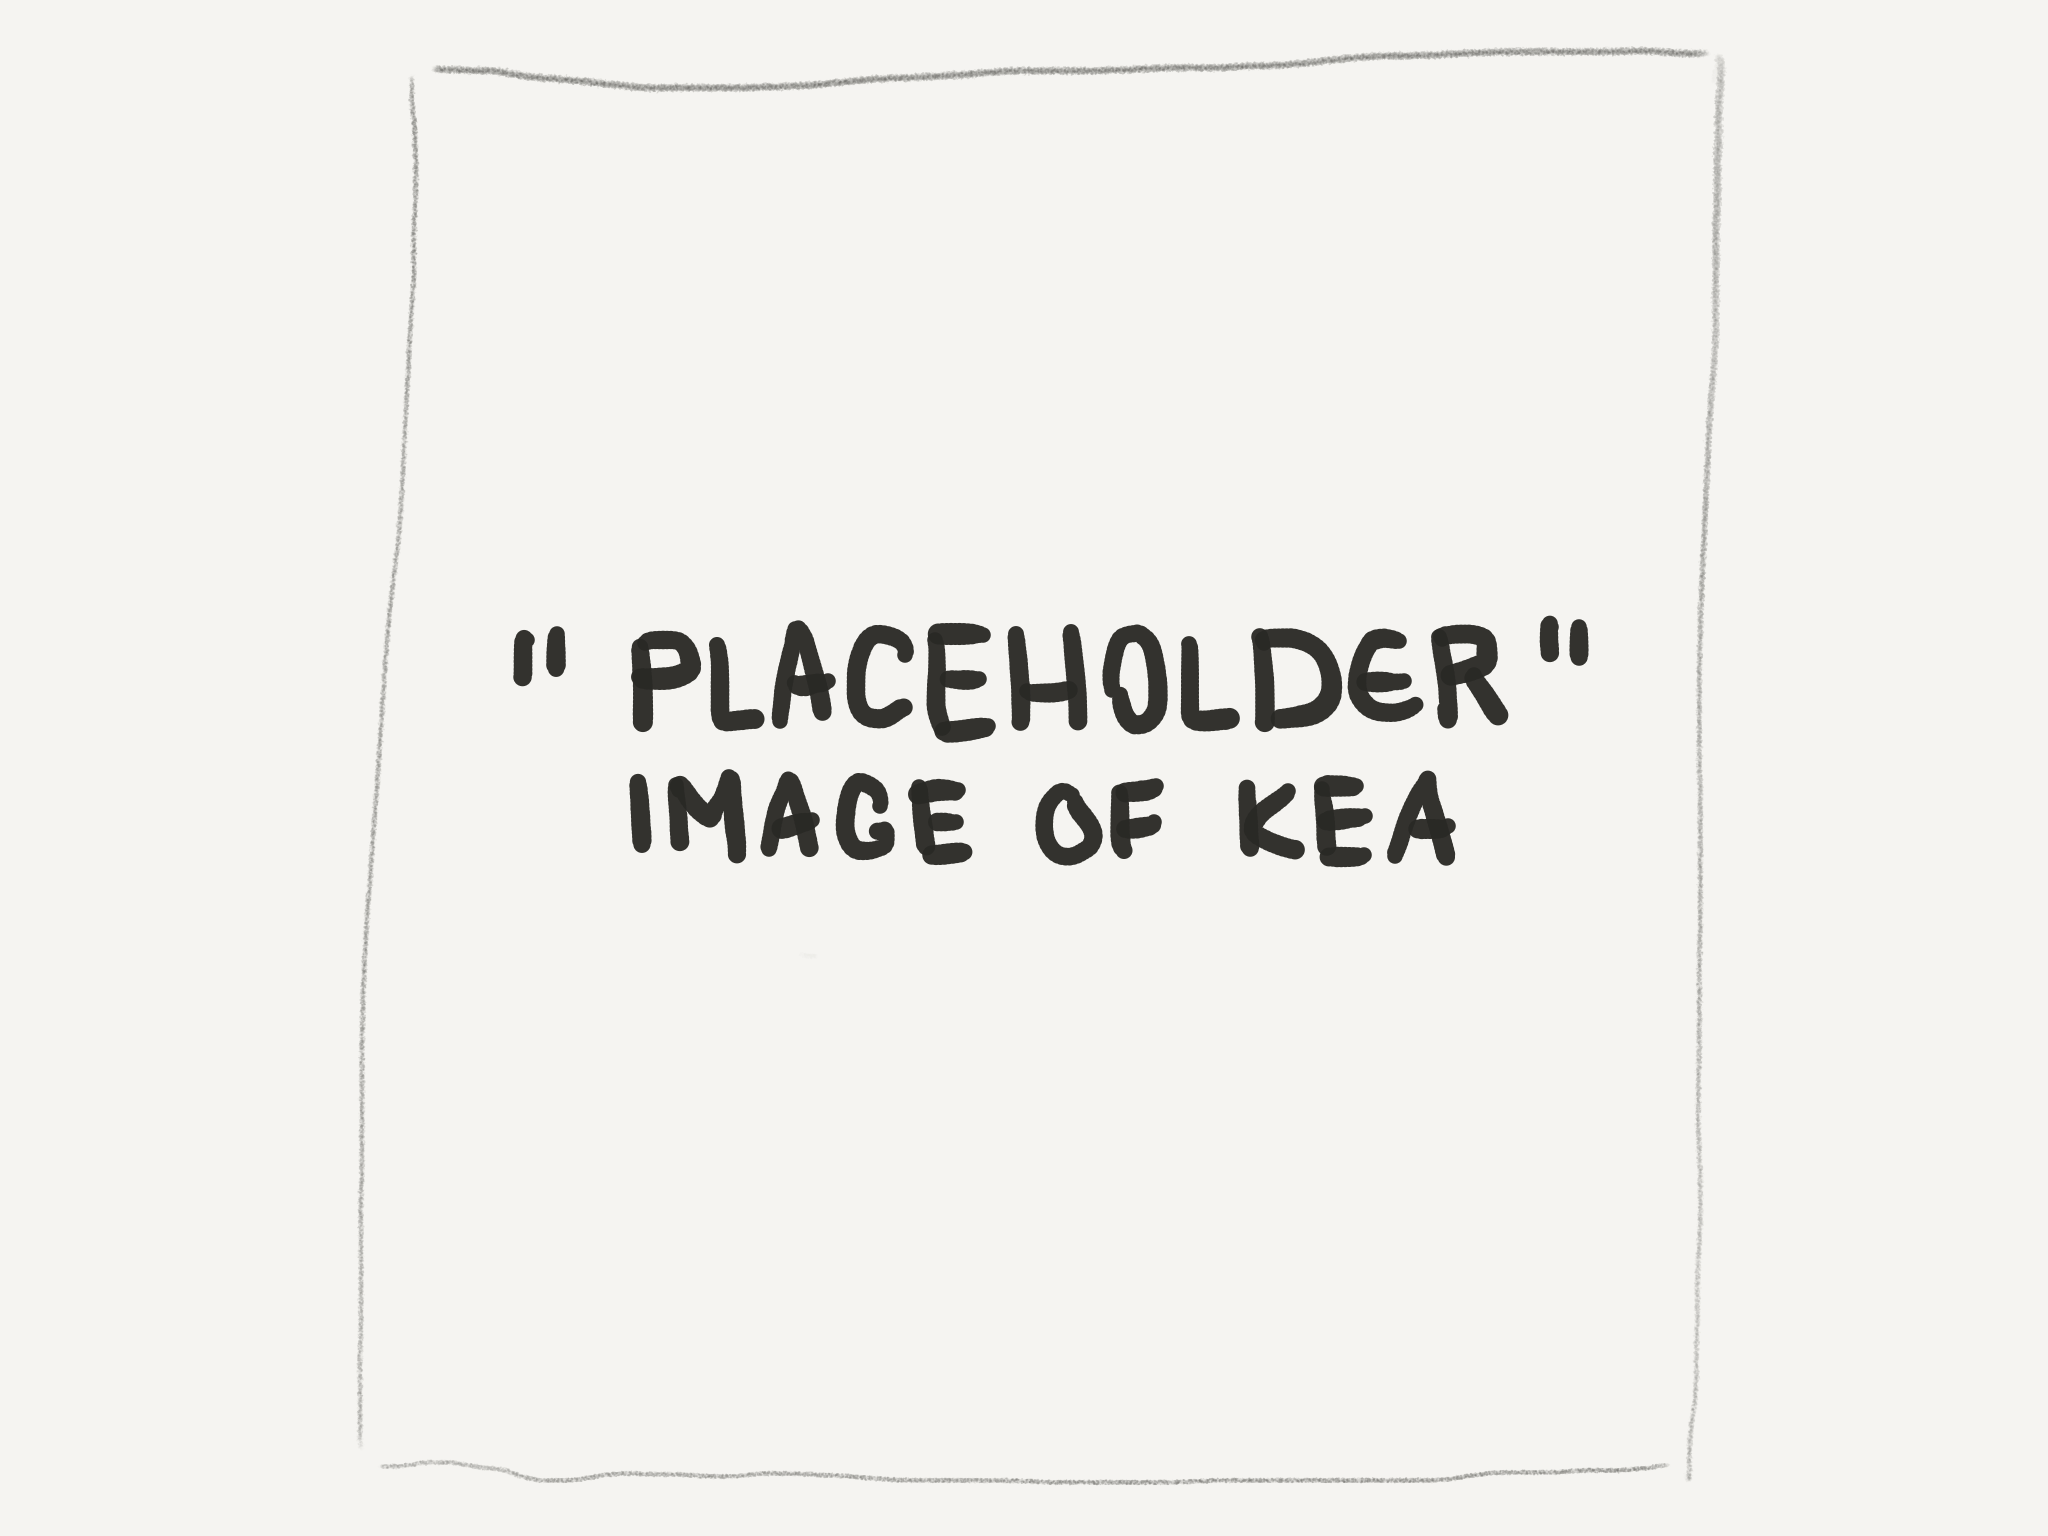
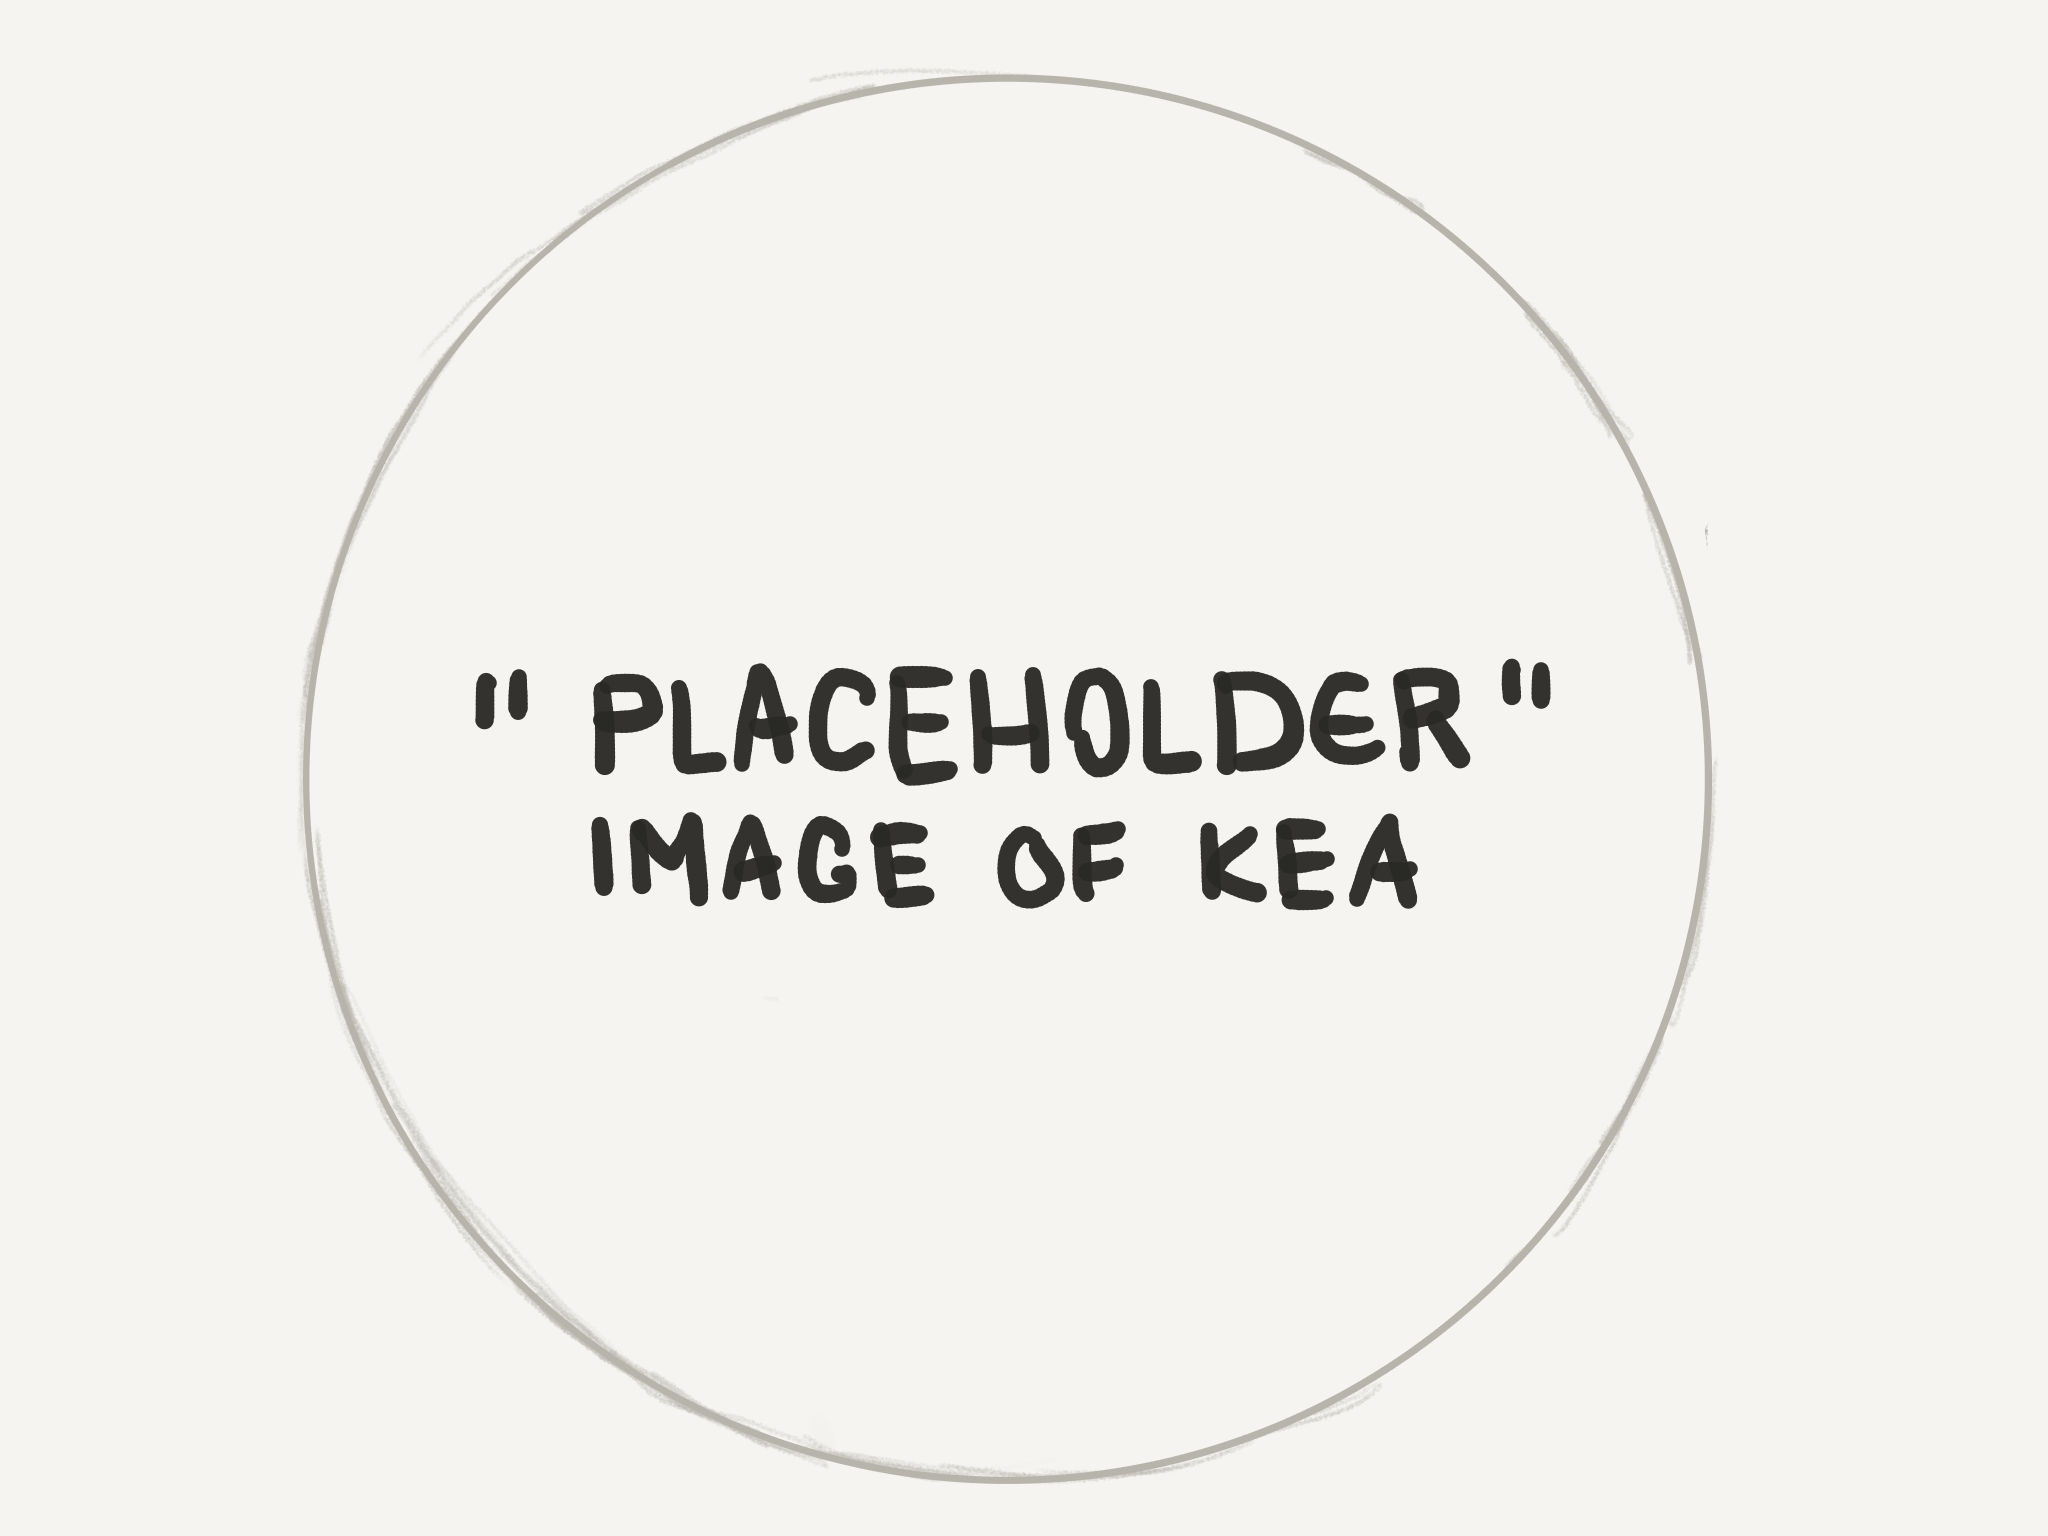
Wireframes

diff --git a/index.html b/index.html
@@ -9,6 +9,7 @@
 </head>
 
     <body>
+    <div id="background">
     <header>
         <h1 class="logo">"KEA LOGO"</h1>
         <div id="bread"><nav id="nav">"BREADCRUMP NAVIGATION"</nav></div>
@@ -63,7 +64,7 @@
     </main>
 
     <footer class="footer">"FOOTER TEXT"</footer>
-
+        </div>
     <script src="js/script.js"></script>
 </body>
 

diff --git a/css/css.css b/css/css.css
@@ -46,10 +46,11 @@ main{
 
 @media (min-width: 500px) {
 
-body{
+#background{
     background-image:url(../img/placeholder2.png);
-    background-size:cover;
+    background-size:1500px;
     background-repeat:no-repeat;
+    background-position:50% -50px;
     }
 
 
